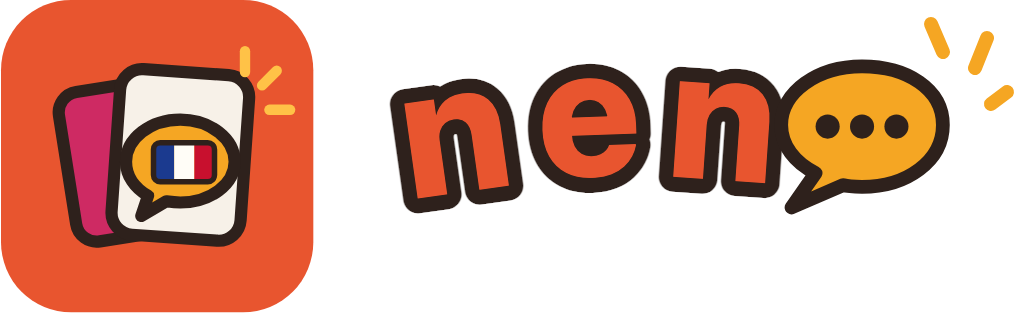
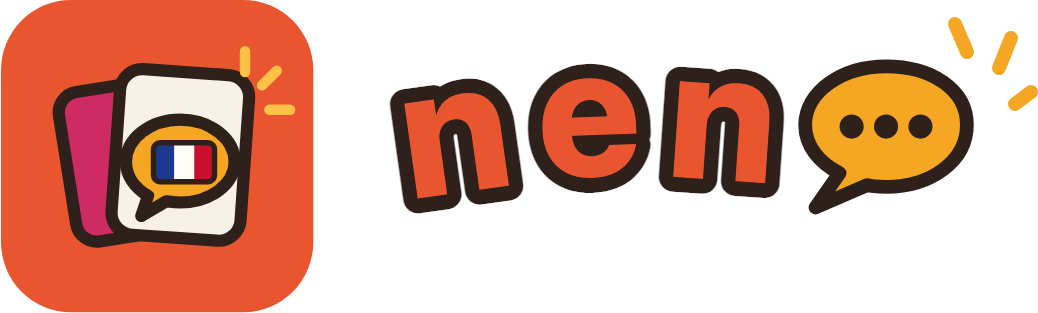
Let the wordmark bubble breathe
The speech bubble's outline touched the final n. It moves twelve units
right, with the sparkles following, in the component and both exports.

diff --git a/src/Bits.tsx b/src/Bits.tsx
@@ -149,7 +149,7 @@ export function Wordmark({ height = 46 }: { height?: number }) {
     { c: 'n', x: 164, y: 80, r: 4 },
   ]
   return (
-    <svg className="wordmark" height={height} viewBox="0 0 312 118" role="img" aria-label="neno">
+    <svg className="wordmark" height={height} viewBox="0 0 322 118" role="img" aria-label="neno">
       <g
         fontFamily="ui-rounded, 'SF Pro Rounded', Nunito, system-ui, sans-serif"
         fontSize="90"
@@ -168,7 +168,7 @@ export function Wordmark({ height = 46 }: { height?: number }) {
         ))}
       </g>
       {/* the final o: a speech bubble with its tail at the bottom left */}
-      <g transform="translate(36 6) scale(0.86)">
+      <g transform="translate(48 6) scale(0.86)">
         <path
           d="M232 20c-26 0-47 15-47 34 0 12 8 22 20 28l-14 20 30-13c3 1 7 1 11 1 26 0 47-15 47-36s-21-34-47-34z"
           fill="var(--gold)"
@@ -184,9 +184,9 @@ export function Wordmark({ height = 46 }: { height?: number }) {
       </g>
       {/* sparkle fan, as on the icon */}
       <g stroke="var(--gold)" strokeWidth="7" strokeLinecap="round">
-        <path d="M276 16 L270 2" />
-        <path d="M292 24 L298 9" />
-        <path d="M300 42 L308 36" />
+        <path d="M288 16 L282 2" />
+        <path d="M304 24 L310 9" />
+        <path d="M312 42 L320 36" />
       </g>
     </svg>
   )
